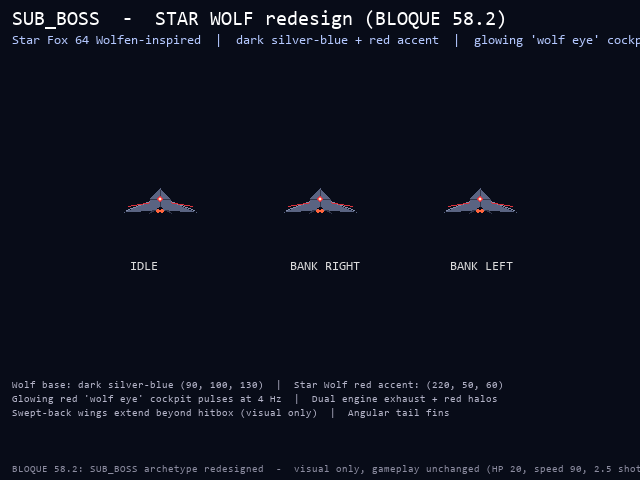
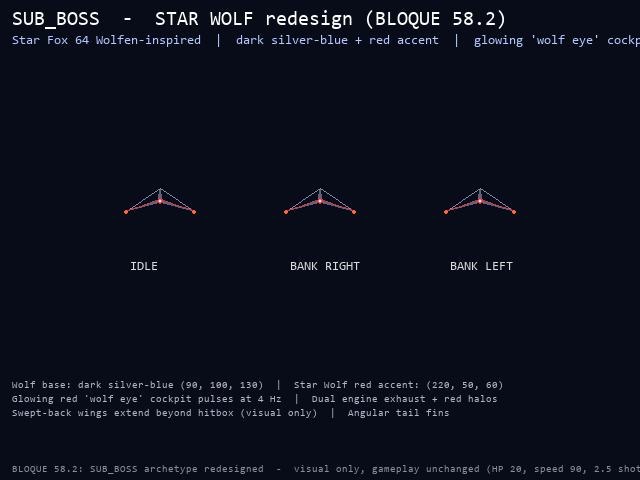
tools: BLOQUE 58.3 - SUB_BOSS redesigned as V-SHAPED Star Wolf fighter
The user asked to make the ship look like a V. The previous design
had swept-back wings extending DOWN-OUT; the new design forms a
clear V silhouette from the player's perspective.

V-SHAPE STRUCTURE:
- Sharp nose at the TOP (the apex of the V)
- Two wing tips extending DOWN and OUT at 45° (the legs of the V)
- Glowing red 'wolf eye' cockpit in the CENTER of the V (between
  the two wing legs, at the V notch)
- Engines at the WING TIPS (the V leg ends)

The whole ship is built from a single 6-point polygon:
  (nose, right-shoulder, right-tip, V-notch, left-tip, left-shoulder)
This gives a clean V silhouette with the cockpit cavity in the middle.

Visual features preserved from BLOQUE 58.2:
- Dark silver-blue base (90, 100, 130) - military aesthetic
- Star Wolf red accents (220, 50, 60) on V edges
- Wing leading-edge highlights (lighter strip)
- Glowing red cockpit with white-hot center
- Engine exhaust at wing tips with red glow halos
- Body panel detail (darker stripe at V notch)

Inspired by the Arwing / Wolfen viewed from below (Star Fox 64).
Same Star Wolf aesthetic, now with a clear V silhouette.

Gameplay unchanged: HP 20, speed 90, 2.5 shots/s, 3 Hz wobble.
Verified: mypy 0 errors (48 files), pytest 878 passed.

Changed region(s): [[0.6875, 0.4062, 0.8125, 0.4688], [0.4375, 0.4062, 0.5625, 0.4688], [0.1875, 0.4062, 0.3125, 0.4688]]

diff --git a/src/ui/gameplay_runtime.py b/src/ui/gameplay_runtime.py
@@ -3398,78 +3398,69 @@ class GameplayRuntime:
             # Red laser aim line (vertical)
             pygame.draw.line(target, (255, 60, 60), (cx, cy + h // 2), (cx, cy + h // 2 + 6), 1)
         elif e.kind == EnemyKind.SUB_BOSS:
-            # BLOQUE 58.2: SUB_BOSS redesigned as a Star Wolf / Star Fox 64
-            # fighter. Inspired by the Wolfen / Wolfen II ships: aggressive
-            # swept-back wings, dark military base + red Star Wolf accent,
-            # prominent glowing red "wolf eye" cockpit, angular tail fins,
-            # dual engine exhaust. Much more visual presence than the
-            # previous yellow/orange dart.
-            # Color palette (Star Wolf style): dark blue-gray base, red accent.
+            # BLOQUE 58.3: SUB_BOSS redesigned as a V-SHAPED Star Wolf
+            # fighter. The whole ship forms a clear V silhouette from the
+            # player's perspective: sharp nose at top, two wing tips
+            # extending DOWN and OUT at 45° forming the V, glowing red
+            # "wolf eye" cockpit in the center of the V, and engines
+            # at the wing tips. Inspired by the Arwing / Wolfen viewed
+            # from below.
+            # Color palette (Star Wolf style): dark silver-blue base + red.
             wolf_base = (90, 100, 130)        # dark silver-blue
             wolf_dark = (50, 55, 75)          # shadow / panel gaps
             wolf_red = (220, 50, 60)          # Star Wolf red accent
             wolf_red_bright = (255, 100, 100)  # cockpit glow
             wolf_engine = (255, 180, 60)      # yellow exhaust
-            # 1) Swept-back main wings (drawn first, behind body)
-            #    These are the signature Star Wolf feature — wings angle
-            #    back and DOWN, giving the ship an aggressive forward-thrust
-            #    silhouette. They extend BEYOND the hitbox for visual punch.
+            # The V is built from 3 elements: a top nose spike (the
+            # apex of the V) and two wings angling DOWN and OUT at 45°
+            # (the legs of the V). All drawn from the same root point.
+            v_root_x = cx
+            v_root_y = cy - h // 2 - 2  # top of the V (nose)
+            # 1) LEFT wing (forms the left leg of the V)
+            #    Goes from the nose down-and-left to the wing tip
+            left_tip_x = cx - w - 2
+            left_tip_y = cy + h // 2 + 1
+            # 2) RIGHT wing (forms the right leg of the V)
+            right_tip_x = cx + w + 2
+            right_tip_y = cy + h // 2 + 1
+            # 3) Draw the V silhouette: a single polygon with 4 points
+            #    (nose, right-tip, center-bottom, left-tip) — this gives
+            #    a clean V-shape with the cockpit cavity in the middle.
             pygame.draw.polygon(target, wolf_base, [
-                (cx - 2, cy - 2),                  # root (near body)
-                (cx - w - 4, cy + h // 2 + 2),     # wing tip (down-left)
-                (cx - 4, cy + h // 2),             # trailing edge
+                (v_root_x, v_root_y),          # apex (nose)
+                (cx + 2, cy - 1),              # right shoulder
+                (right_tip_x, right_tip_y),    # right wing tip
+                (cx, cy + 2),                  # V notch (bottom center)
+                (left_tip_x, left_tip_y),      # left wing tip
+                (cx - 2, cy - 1),              # left shoulder
             ])
-            pygame.draw.polygon(target, wolf_base, [
-                (cx + 2, cy - 2),
-                (cx + w + 4, cy + h // 2 + 2),
-                (cx + 4, cy + h // 2),
-            ])
-            # Wing leading-edge highlight (lighter strip)
+            # 4) Wing leading-edge highlights (the outer edges of the V)
             wing_hi = (130, 140, 170)
-            pygame.draw.line(target, wing_hi, (cx - 2, cy - 2), (cx - w - 2, cy + h // 2), 1)
-            pygame.draw.line(target, wing_hi, (cx + 2, cy - 2), (cx + w + 2, cy + h // 2), 1)
-            # Red accent stripes on wings (Star Wolf livery)
-            pygame.draw.line(target, wolf_red, (cx - 3, cy + 1), (cx - w, cy + h // 3), 1)
-            pygame.draw.line(target, wolf_red, (cx + 3, cy + 1), (cx + w, cy + h // 3), 1)
-            # 2) Main body: angular dart (similar to current but sharper)
-            pygame.draw.polygon(target, wolf_base, [
-                (cx, cy - h // 2 - 2),       # sharp nose
-                (cx + w // 3, cy - 1),       # right shoulder
-                (cx + w // 3, cy + h // 3),  # right hip
-                (cx + w // 4, cy + h // 2),  # right tail tip
-                (cx, cy + h // 3),           # tail center notch
-                (cx - w // 4, cy + h // 2),  # left tail tip
-                (cx - w // 3, cy + h // 3),  # left hip
-                (cx - w // 3, cy - 1),       # left shoulder
-            ])
-            # Body panel detail (darker stripes for mechanical look)
-            pygame.draw.line(target, wolf_dark, (cx, cy - h // 2), (cx, cy + h // 3), 1)
-            pygame.draw.line(target, wolf_dark, (cx - w // 3, cy - 1), (cx + w // 3, cy - 1), 1)
-            # 3) Angular tail fins (Star Wolf signature — 2 swept-back fins)
-            pygame.draw.polygon(target, wolf_dark, [
-                (cx - w // 4, cy + h // 2),
-                (cx - w // 3 - 1, cy + h // 2 + 3),
-                (cx - w // 6, cy + h // 2),
-            ])
-            pygame.draw.polygon(target, wolf_dark, [
-                (cx + w // 4, cy + h // 2),
-                (cx + w // 3 + 1, cy + h // 2 + 3),
-                (cx + w // 6, cy + h // 2),
-            ])
-            # 4) Glowing red "wolf eye" cockpit (the boss visual signature)
-            #    Pulses at 4 Hz for menacing feel
-            pulse = 200 + int(55 * math.sin(self._t * 4))
-            pygame.draw.circle(target, wolf_red, (cx, cy - 1), 3)
-            pygame.draw.circle(target, (wolf_red_bright[0], wolf_red_bright[1], wolf_red_bright[2]),
-                               (cx, cy - 1), 2)
+            pygame.draw.line(target, wing_hi,
+                             (v_root_x, v_root_y), (right_tip_x, right_tip_y), 1)
+            pygame.draw.line(target, wing_hi,
+                             (v_root_x, v_root_y), (left_tip_x, left_tip_y), 1)
+            # 5) Red Star Wolf accent stripes along the V edges
+            pygame.draw.line(target, wolf_red,
+                             (cx + 1, cy), (right_tip_x - 1, right_tip_y - 1), 1)
+            pygame.draw.line(target, wolf_red,
+                             (cx - 1, cy), (left_tip_x + 1, left_tip_y - 1), 1)
+            # 6) Body panel detail (darker stripes at the V notch)
+            pygame.draw.line(target, wolf_dark, (cx, cy - 1), (cx, cy + 2), 1)
+            # 7) Glowing red "wolf eye" cockpit at the V center
+            #    This is the focal point of the V — the menacing red eye
+            #    that the player sees between the two wing legs.
+            pygame.draw.circle(target, wolf_red, (cx, cy + 1), 3)
+            pygame.draw.circle(target, wolf_red_bright, (cx, cy + 1), 2)
             # White-hot center
-            pygame.draw.circle(target, (255, 240, 200), (cx, cy - 1), 1)
-            # 5) Dual tail engines with red-to-yellow gradient
-            pygame.draw.rect(target, wolf_engine, (cx - 3, cy + h // 2 - 1, 2, 2))
-            pygame.draw.rect(target, wolf_engine, (cx + 1, cy + h // 2 - 1, 2, 2))
-            # Engine glow halo (red, shows the engines are HOT)
-            pygame.draw.circle(target, (255, 100, 60), (cx - 2, cy + h // 2 + 1), 2)
-            pygame.draw.circle(target, (255, 100, 60), (cx + 2, cy + h // 2 + 1), 2)
+            pygame.draw.circle(target, (255, 240, 200), (cx, cy + 1), 1)
+            # 8) Engine exhaust at the WING TIPS (where the V legs end)
+            #    Two bright engines at the bottom corners of the V.
+            pygame.draw.rect(target, wolf_engine, (left_tip_x - 1, left_tip_y, 2, 2))
+            pygame.draw.rect(target, wolf_engine, (right_tip_x - 1, right_tip_y, 2, 2))
+            # Red glow halos around the engines (they're HOT)
+            pygame.draw.circle(target, (255, 100, 60), (left_tip_x, left_tip_y + 1), 2)
+            pygame.draw.circle(target, (255, 100, 60), (right_tip_x, right_tip_y + 1), 2)
             # Subtle outer halo to mark it as a mini-boss
             halo = pygame.Surface((w + 12, h + 12), pygame.SRCALPHA)
             halo_alpha = 40 + int(20 * math.sin(self._t * 6))

diff --git a/tools/capture_sub_boss_starwolf.py b/tools/capture_sub_boss_starwolf.py
@@ -1,13 +1,12 @@
-"""Capture: render the redesigned SUB_BOSS as a Star Wolf-style fighter.
+"""Capture: render the redesigned SUB_BOSS as a V-shaped Star Wolf fighter.
 
-BLOQUE 58.2: visual proof for the SUB_BOSS sprite redesign.
-Shows 3 frames of the Star Wolf-inspired sub-boss: idle, banking
-right, banking left. The sprite has:
-  - Swept-back wings (Star Wolf signature)
-  - Dark silver-blue base with red Star Wolf accents
-  - Glowing red "wolf eye" cockpit (pulses at 4 Hz)
-  - Angular tail fins
-  - Dual engine exhaust with red glow halos
+BLOQUE 58.3: visual proof for the SUB_BOSS V-shape redesign.
+The whole ship forms a clear V silhouette:
+  - Sharp nose at top (V apex)
+  - Two wing tips extending DOWN and OUT at 45° (V legs)
+  - Glowing red "wolf eye" cockpit at the V center
+  - Engines at the wing tips (V leg ends)
+Inspired by the Arwing / Wolfen viewed from below.
 
 Output: tools/playtest_out/polish_45_sub_boss_starwolf.png
 """
@@ -70,49 +69,42 @@ import src.ui.gameplay_runtime as gpr
 # the whole game.
 
 def draw_sub_boss(target: pygame.Surface, cx: int, cy: int, w: int, h: int, t: float) -> None:
-    """BLOQUE 58.2: Star Wolf-style sub-boss (extracted from gameplay_runtime)."""
+    """BLOQUE 58.3: V-shaped Star Wolf-style sub-boss."""
     wolf_base = (90, 100, 130)
     wolf_dark = (50, 55, 75)
     wolf_red = (220, 50, 60)
     wolf_red_bright = (255, 100, 100)
     wolf_engine = (255, 180, 60)
-    # Wings
+    v_root_x = cx
+    v_root_y = cy - h // 2 - 2
+    left_tip_x = cx - w - 2
+    left_tip_y = cy + h // 2 + 1
+    right_tip_x = cx + w + 2
+    right_tip_y = cy + h // 2 + 1
+    # V silhouette
     pygame.draw.polygon(target, wolf_base, [
-        (cx - 2, cy - 2), (cx - w - 4, cy + h // 2 + 2), (cx - 4, cy + h // 2),
-    ])
-    pygame.draw.polygon(target, wolf_base, [
-        (cx + 2, cy - 2), (cx + w + 4, cy + h // 2 + 2), (cx + 4, cy + h // 2),
+        (v_root_x, v_root_y),
+        (cx + 2, cy - 1),
+        (right_tip_x, right_tip_y),
+        (cx, cy + 2),
+        (left_tip_x, left_tip_y),
+        (cx - 2, cy - 1),
     ])
     wing_hi = (130, 140, 170)
-    pygame.draw.line(target, wing_hi, (cx - 2, cy - 2), (cx - w - 2, cy + h // 2), 1)
-    pygame.draw.line(target, wing_hi, (cx + 2, cy - 2), (cx + w + 2, cy + h // 2), 1)
-    pygame.draw.line(target, wolf_red, (cx - 3, cy + 1), (cx - w, cy + h // 3), 1)
-    pygame.draw.line(target, wolf_red, (cx + 3, cy + 1), (cx + w, cy + h // 3), 1)
-    # Body
-    pygame.draw.polygon(target, wolf_base, [
-        (cx, cy - h // 2 - 2), (cx + w // 3, cy - 1), (cx + w // 3, cy + h // 3),
-        (cx + w // 4, cy + h // 2), (cx, cy + h // 3), (cx - w // 4, cy + h // 2),
-        (cx - w // 3, cy + h // 3), (cx - w // 3, cy - 1),
-    ])
-    pygame.draw.line(target, wolf_dark, (cx, cy - h // 2), (cx, cy + h // 3), 1)
-    pygame.draw.line(target, wolf_dark, (cx - w // 3, cy - 1), (cx + w // 3, cy - 1), 1)
-    # Tail fins
-    pygame.draw.polygon(target, wolf_dark, [
-        (cx - w // 4, cy + h // 2), (cx - w // 3 - 1, cy + h // 2 + 3), (cx - w // 6, cy + h // 2),
-    ])
-    pygame.draw.polygon(target, wolf_dark, [
-        (cx + w // 4, cy + h // 2), (cx + w // 3 + 1, cy + h // 2 + 3), (cx + w // 6, cy + h // 2),
-    ])
+    pygame.draw.line(target, wing_hi, (v_root_x, v_root_y), (right_tip_x, right_tip_y), 1)
+    pygame.draw.line(target, wing_hi, (v_root_x, v_root_y), (left_tip_x, left_tip_y), 1)
+    pygame.draw.line(target, wolf_red, (cx + 1, cy), (right_tip_x - 1, right_tip_y - 1), 1)
+    pygame.draw.line(target, wolf_red, (cx - 1, cy), (left_tip_x + 1, left_tip_y - 1), 1)
+    pygame.draw.line(target, wolf_dark, (cx, cy - 1), (cx, cy + 2), 1)
     # Cockpit
-    pulse = 200 + int(55 * math.sin(t * 4))
-    pygame.draw.circle(target, wolf_red, (cx, cy - 1), 3)
-    pygame.draw.circle(target, wolf_red_bright, (cx, cy - 1), 2)
-    pygame.draw.circle(target, (255, 240, 200), (cx, cy - 1), 1)
-    # Engines
-    pygame.draw.rect(target, wolf_engine, (cx - 3, cy + h // 2 - 1, 2, 2))
-    pygame.draw.rect(target, wolf_engine, (cx + 1, cy + h // 2 - 1, 2, 2))
-    pygame.draw.circle(target, (255, 100, 60), (cx - 2, cy + h // 2 + 1), 2)
-    pygame.draw.circle(target, (255, 100, 60), (cx + 2, cy + h // 2 + 1), 2)
+    pygame.draw.circle(target, wolf_red, (cx, cy + 1), 3)
+    pygame.draw.circle(target, wolf_red_bright, (cx, cy + 1), 2)
+    pygame.draw.circle(target, (255, 240, 200), (cx, cy + 1), 1)
+    # Engines at wing tips
+    pygame.draw.rect(target, wolf_engine, (left_tip_x - 1, left_tip_y, 2, 2))
+    pygame.draw.rect(target, wolf_engine, (right_tip_x - 1, right_tip_y, 2, 2))
+    pygame.draw.circle(target, (255, 100, 60), (left_tip_x, left_tip_y + 1), 2)
+    pygame.draw.circle(target, (255, 100, 60), (right_tip_x, right_tip_y + 1), 2)
 
 # 3 frames: idle, bank right, bank left
 positions = [
